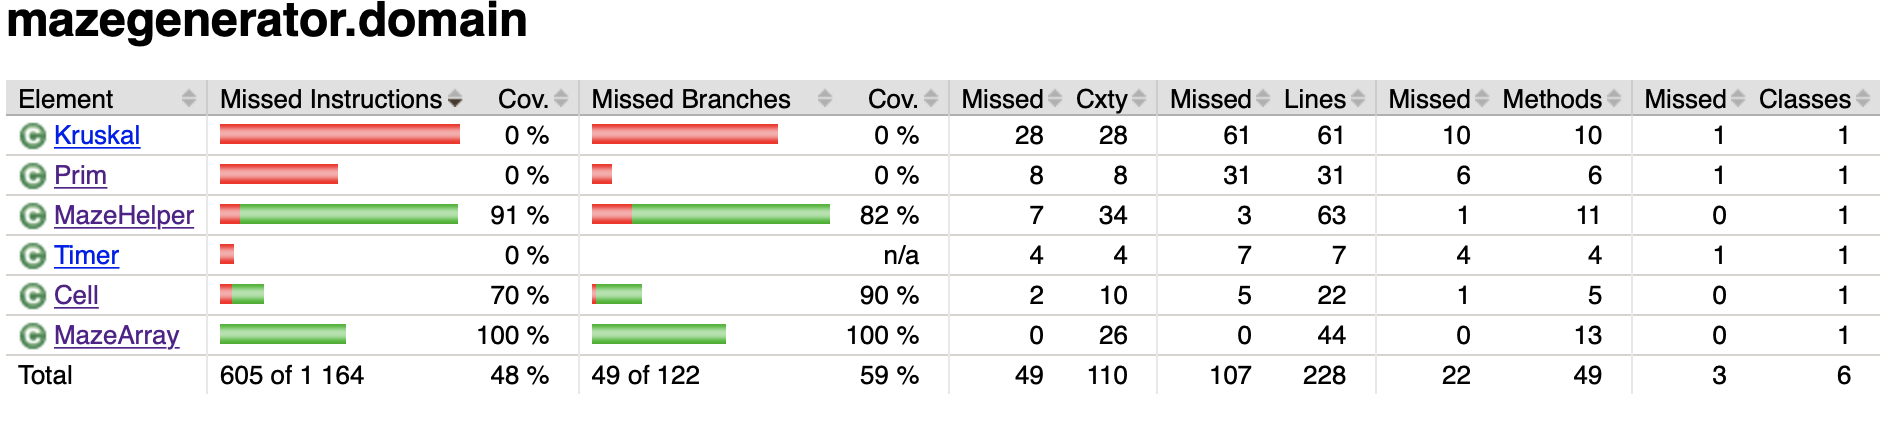
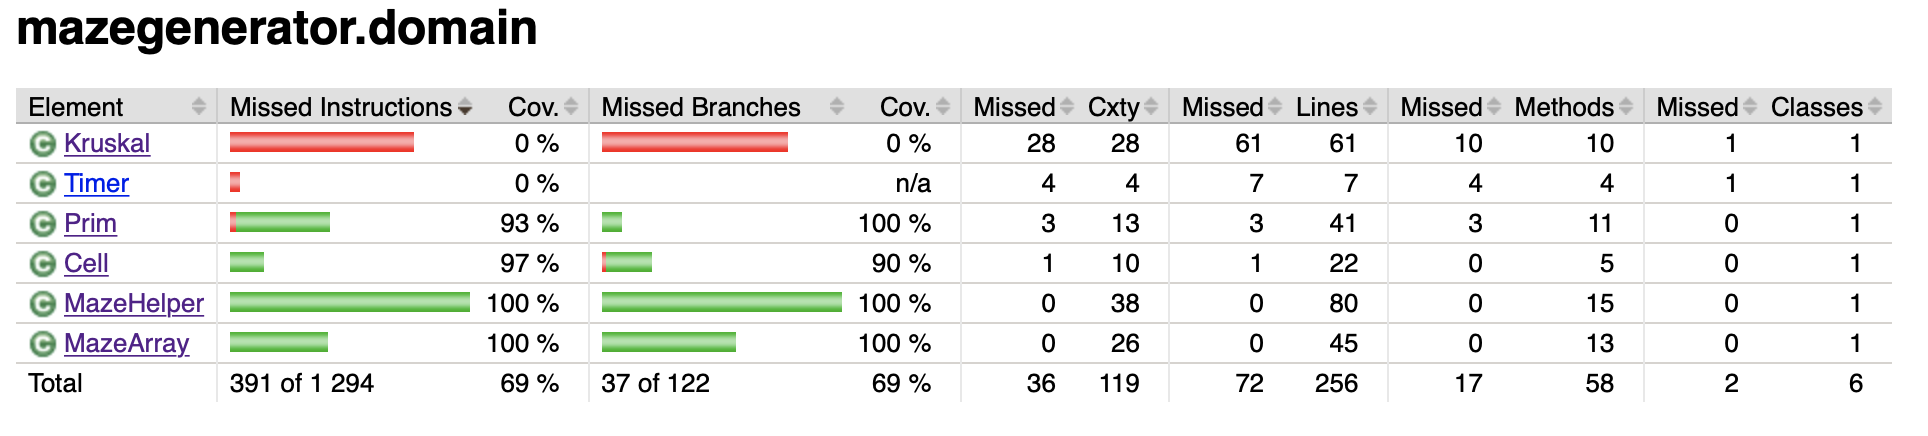
Fix documentation update

Changed region(s): [[0.0, 0.1814, 0.9947, 0.907], [0.0, 0.0, 0.2798, 0.1209], [0.8704, 0.8767, 0.9015, 0.907]]

diff --git a/README.md b/README.md
@@ -1,6 +1,38 @@
 # MazeGenerator
 
 
+## Komentorivi komennot
+
+Jar-paketin generointi
+```
+mvn package
+```
+
+Projektin koodi voidaan suorittaa komennolla
+
+```
+mvn compile exec:java -Dexec.mainClass=mazegenerator.Main
+```
+
+Testit voidaan suorittaa komennolla
+
+```
+mvn test
+```
+
+Testikattavuusraportti luodaan komennolla
+
+```
+mvn jacoco:report
+```
+
+Checkstyle voidaan suorittaa komennolla
+
+```
+mvn jxr:jxr checkstyle:checkstyle
+```
+
+
 ## Dokumentaatio
 
 [Määrittelydokumentti](/Documentation/maarittely_dokumentti.md)
@@ -19,4 +51,5 @@
 * [Viikko 2](/Documentation/viikkoraportti2.md)
 * [Viikko 3](/Documentation/viikkoraportti3.md)   
 * [Viikko 4](/Documentation/viikkoraportti4.md)
-* [Viikko 5](/Documentation/viikkoraportti5.md)   
+* [Viikko 5](/Documentation/viikkoraportti5.md)
+* [Viikko 6](/Documentation/viikkoraportti6.md)   

diff --git a/Documentation/viikkoraportti6.md b/Documentation/viikkoraportti6.md
@@ -1,0 +1,26 @@
+# Viikko 6
+
+[Tuntikirjanpito](./tuntikirjanpito.md)
+
+## Viikon tapahtumat
+
+* Prim valmiiksi
+* Käyttöliittymän ensimmäinen versio valmis
+* Testien lisäämistä
+
+## Ohjelman edistyminen
+
+* Sovelluksen ensimmäinen toimiva versio valmis
+
+## Mitä opin
+
+* JavaFx:ssän toiminnasta
+
+## Vaikeudet/epäselvyydet
+
+
+## Mitä seuraavaksi
+
+* Kruskalin viimeistely
+* Algoritmien aikavertailun käyttöönotto
+* Käyttöliittymän laajennus

diff --git a/Documentation/tuntikirjanpito.md b/Documentation/tuntikirjanpito.md
@@ -15,4 +15,7 @@
 | 13.2.2021 | 5 | Kruskalin aloitus, Array luokan laajennus, testejä, dokumentaation kirjoitusta |
 | 18.2.2021 | 3 | Bugien metsästystä ja kruskalin suunnittelua |
 | 19.2.2021 | 6 | Bugien metsästystä, testien uudistamista, korjauksia |
-| yht. | 42 | |
+| 23.2.2021 | 3 | Testien lisääminen |
+| 24.2.2021 | 5 | Luokkien laajennnus ja testien päivitys |
+| 25.2.2021 | 3 | Käyttöliittymän valmistelu |
+| yht. | 50 | |
